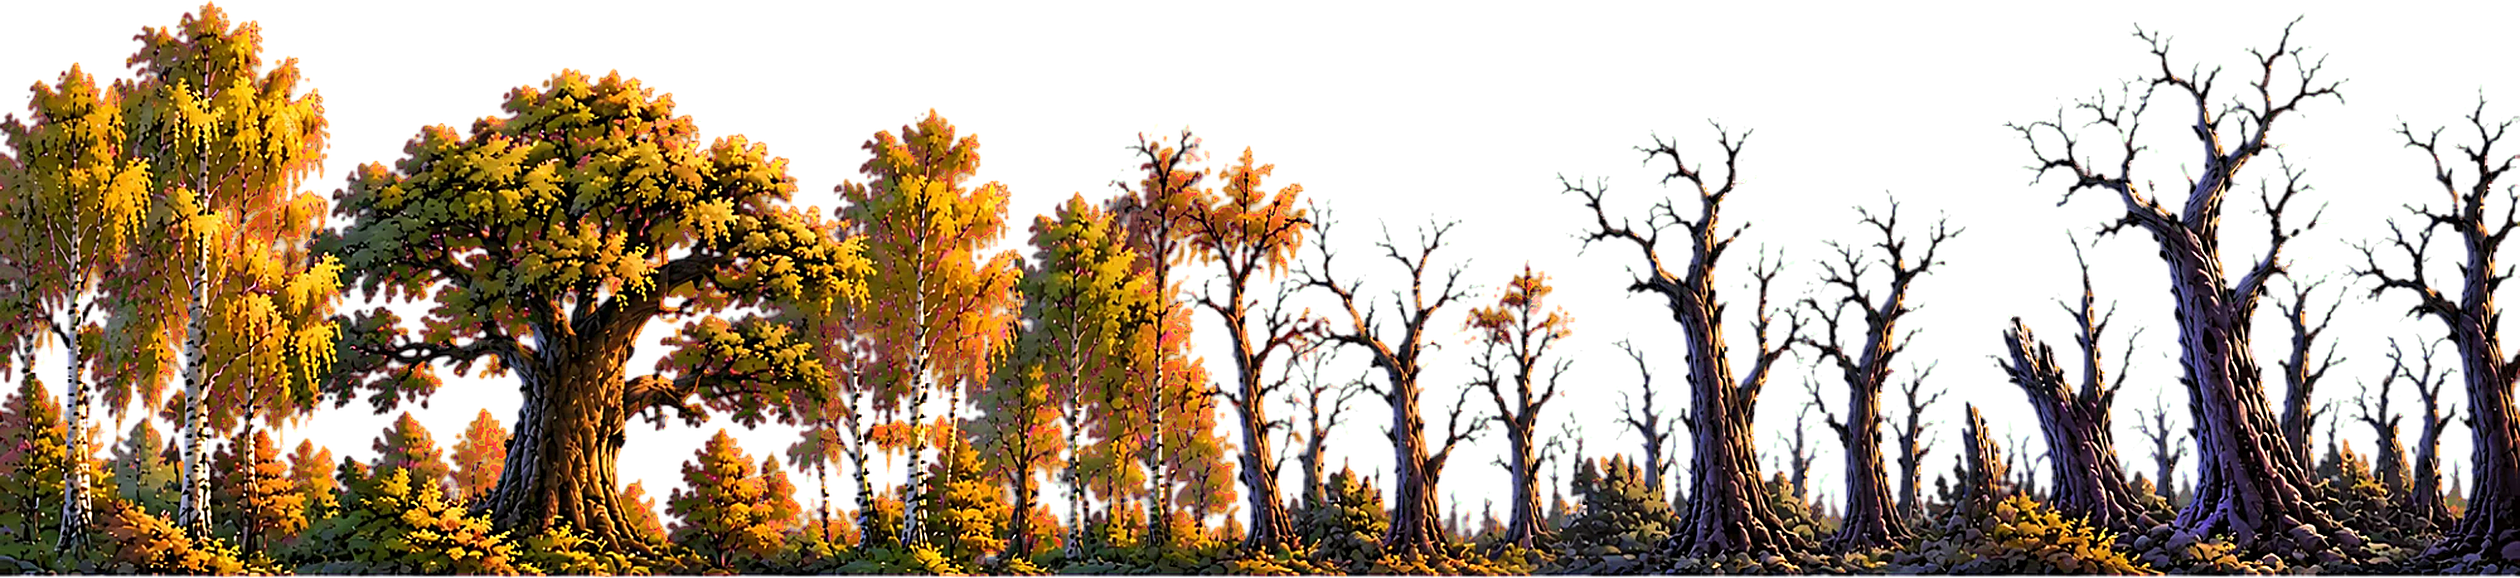
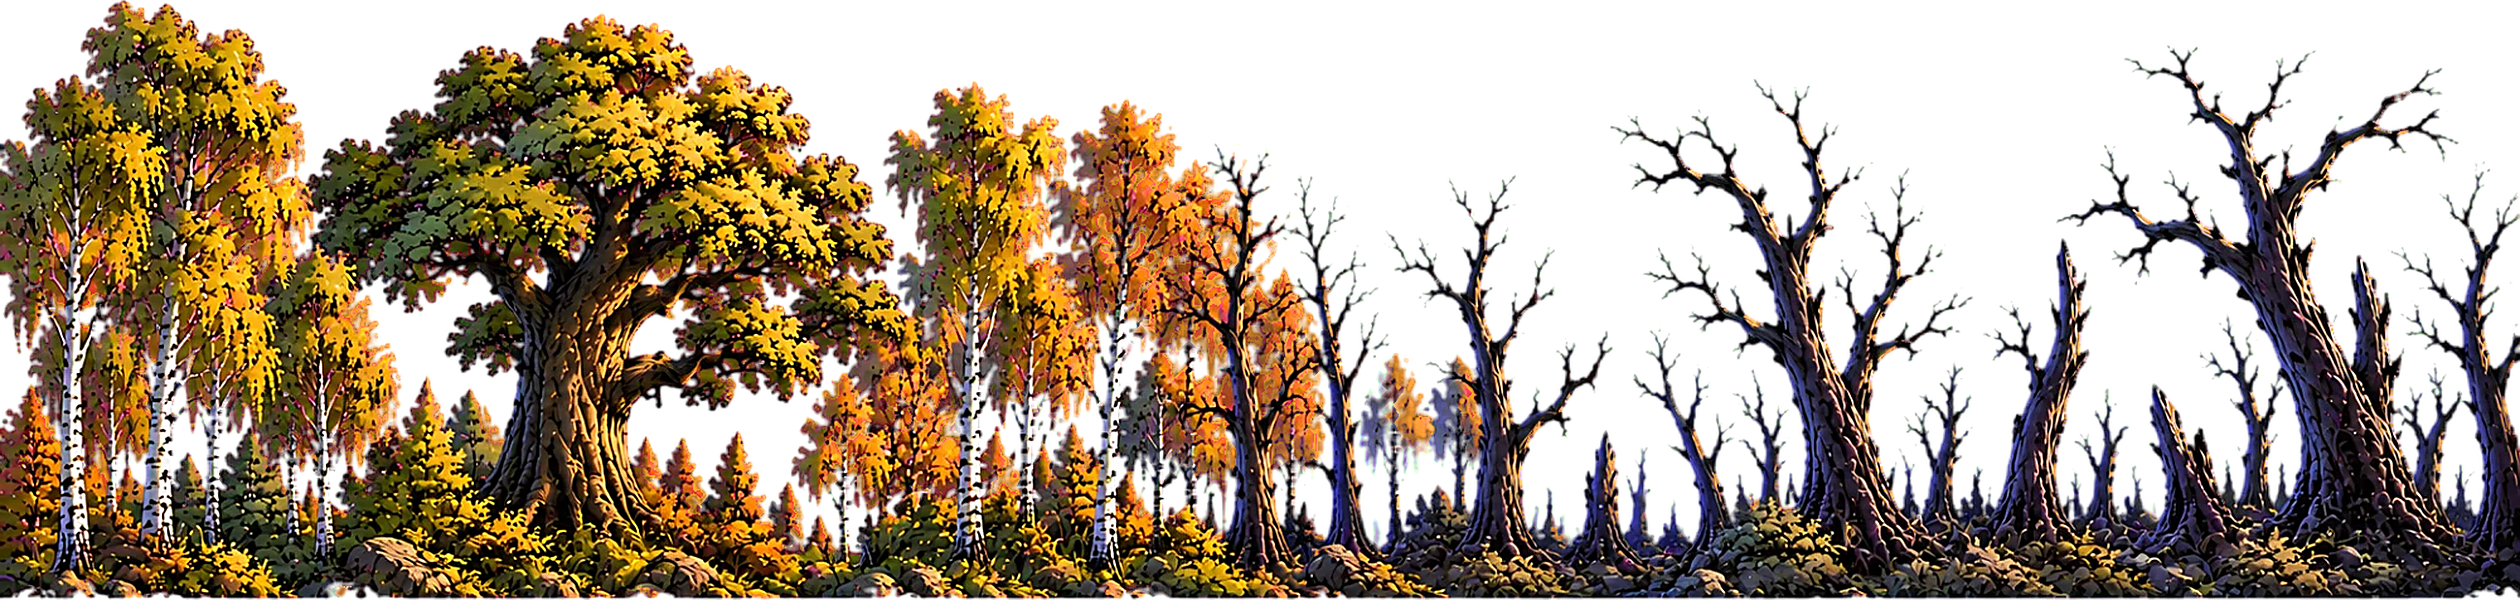
Битва легенд 2.6.1: чёткий лес, надпись сборки не налезает на подсказки
Claude-Session: https://claude.ai/code/session_01XXCj5USGvqBwGBQWYjNQyR

diff --git a/bitva-legend/docs/ART_ARENA.md b/bitva-legend/docs/ART_ARENA.md
@@ -102,6 +102,7 @@ Wide horizontal strip of foreground vegetation for a 2D fighting game, it will b
 | все 9 слоёв | ✅ в игре (2.5.3). Исходники — `art_src/arena/` (первый вариант леса — `old_forest_v1.webp`) |
 
 Заметки по полученному:
+- 2.6.1: лес перегенерирован по новому промпту (чётко, деревья на половину высоты) — исходники прошлых версий: `old_forest_v1.webp`, `old_forest_v2.webp`.
 - 2.6: у туч контур снимается скриптом (`strip_outline`), камень утоплен в дорогу и отбрасывает тень,
   полосы (горы, лес, передний план) скрипт делает чуть резче. Промпты туч (без контура) и леса (чётко, 4K)
   обновлены выше — если перегенерировать, станет ещё лучше.
